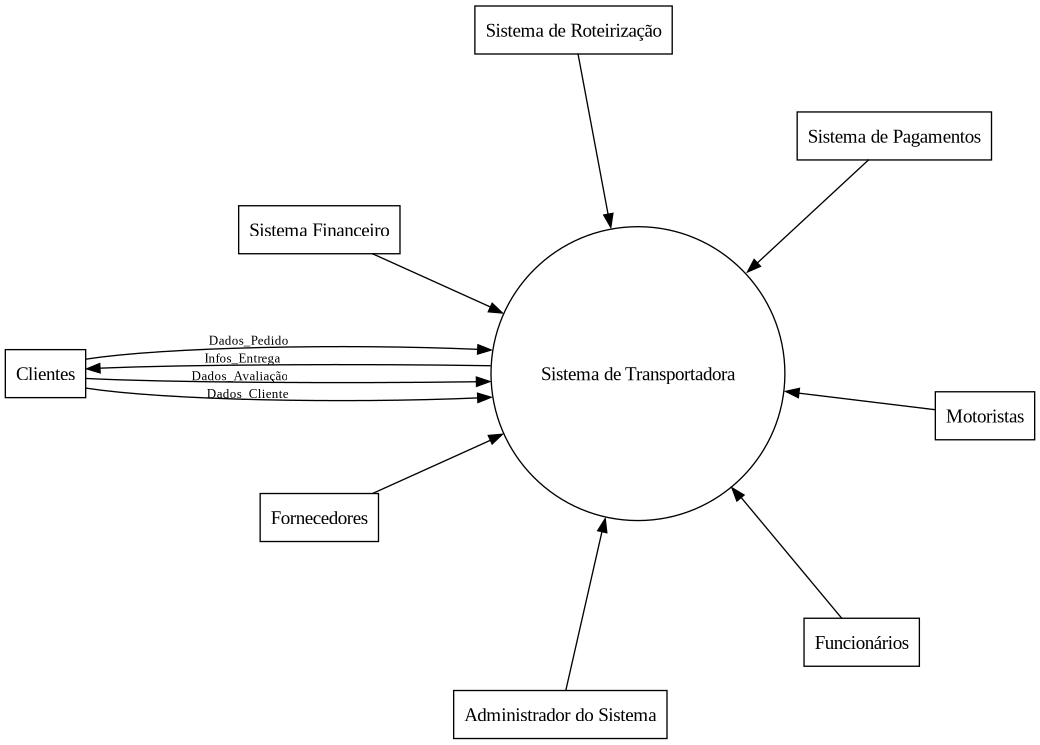
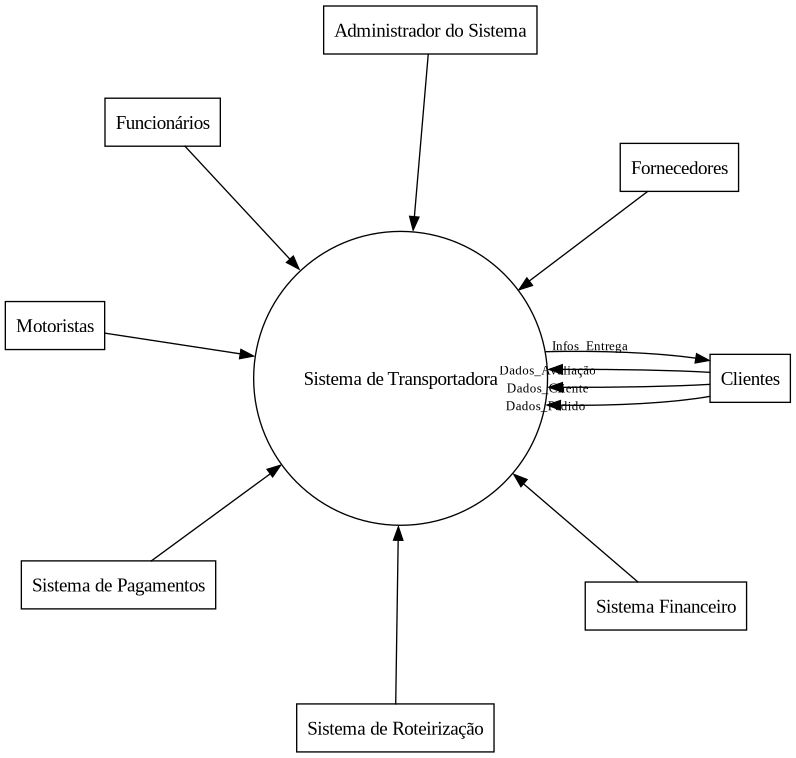
Trabalho SIG

diff --git a/Relatório/Semana-1/3-Levantamento-de-Requisitos/requisitos.tex b/Relatório/Semana-1/3-Levantamento-de-Requisitos/requisitos.tex
@@ -1,77 +1,31 @@
 \subsection{Análise de Requisitos}
 
-\subsubsection{Atender e Registrar Pedidos dos Clientes}
 
-O requisito de "Atender e Registrar Pedidos dos Clientes" é essencial para o funcionamento da transportadora, permitindo que os clientes façam pedidos e que essas solicitações sejam registradas no sistema. O ator envolvido é o cliente, que interage com o caso de uso "Receber Pedidos dos Clientes", enviando suas demandas por meio de um aplicativo ou plataforma online. O sistema, por sua vez, recebe esses pedidos, armazena as informações relevantes e os encaminha para processamento posterior. O registro adequado dos pedidos é crucial para a organização das demandas, possibilitando uma gestão mais eficiente das entregas e garantindo a satisfação dos clientes ao atender suas necessidades de forma precisa e oportuna.
+\subsubsection{Cadastro de Novos Clientes}
+O sistema deve proporcionar uma interface de cadastro de novos clientes, onde os usuários possam preencher informações pessoais, como nome, endereço de e-mail e preferências de viagem. Essas preferências incluem as cidades ou atrações turísticas que eles desejam visitar durante sua viagem. O cadastro é essencial para personalizar os roteiros de acordo com as escolhas individuais de cada cliente, oferecendo uma experiência turística mais adequada às suas expectativas.
 
-\subsubsection{Permitir Ordens de Pedido dos Fornecedores}
+\subsubsection{Receber Cidades ou Atrações de Interesse dos Clientes}
+Após o cadastro, o sistema permite que os clientes selecionem as cidades ou atrações turísticas que mais lhes interessam. Eles podem indicar os pontos turísticos específicos que desejam visitar, bem como as atividades ou eventos que gostariam de incluir em seus roteiros. Essa funcionalidade permite que os clientes expressem suas preferências de forma clara, tornando possível a criação de roteiros personalizados e alinhados com seus interesses individuais.
 
-O requisito de "Permitir Ordens de Pedido dos Fornecedores" busca assegurar o suprimento adequado de materiais e produtos essenciais para a operação da transportadora. Os fornecedores são os atores envolvidos, interagindo com o caso de uso "Emitir Ordens de Pedido aos Fornecedores". O sistema gera e envia eletronicamente as ordens de pedido, estabelecendo formalmente a solicitação de compra. A emissão de ordens de pedido é uma etapa crítica no controle da cadeia de suprimentos, permitindo que a transportadora mantenha um histórico organizado de suas transações comerciais com os fornecedores, garantindo a disponibilidade dos materiais e evitando problemas de estoque.
+\subsubsection{Acessar a API do Google para Coletar Dados sobre as Cidades}
+Para fornecer informações detalhadas sobre as cidades e atrações turísticas selecionadas pelos clientes, o sistema integra-se à API do Google ou a outras fontes confiáveis de dados. Por meio dessa API, o sistema pode obter dados relevantes, como horários de funcionamento, avaliações, endereços e descrições detalhadas dos pontos turísticos. A coleta dessas informações é fundamental para a criação de roteiros precisos e bem informados.
 
-\subsubsection{Cadastrar Fornecedores}
+\subsubsection{Formatar e Computar os Dados Adquiridos}
+Os dados obtidos da API do Google precisam ser tratados e formatados adequadamente para que possam ser usados no processo de otimização de rotas. As informações coletadas devem ser armazenadas em uma estrutura de dados apropriada, facilitando sua manipulação e utilização pelo sistema durante o processo de criação de roteiros turísticos otimizados.
 
-O requisito de "Cadastrar Fornecedores" visa permitir que a transportadora mantenha um registro detalhado e atualizado das informações de seus fornecedores. O ator envolvido é o funcionário, que interage com o caso de uso "Cadastrar Fornecedores" para inserir os dados dos fornecedores no sistema. O cadastro organizado dos fornecedores é crucial para uma gestão eficiente da cadeia de suprimentos, permitindo à transportadora ter acesso rápido e fácil às informações relevantes sobre seus parceiros de negócios, facilitando a comunicação e a negociação com essas entidades.
+\subsubsection{Otimizar Rotas}
+Uma das principais funcionalidades do sistema é a otimização das rotas turísticas. Com base nas cidades e atrações selecionadas pelos clientes, o sistema deve criar roteiros que maximizem a satisfação do cliente enquanto minimizam custos e tempo de deslocamento. Durante a otimização, o sistema considera restrições de tempo, horários de funcionamento das atrações e possíveis custos associados a cada visita.
 
-\subsubsection{Gerenciar Estoques}
+\subsubsection{Consultar Relatórios sobre as Rotas}
+O sistema deve gerar relatórios detalhados sobre as rotas otimizadas. Esses relatórios fornecem informações como a sequência de visitação das atrações, o tempo estimado de permanência em cada local, distâncias percorridas, custos totais e outras métricas relevantes. Os relatórios são úteis tanto para o cliente, que pode acompanhar seu itinerário, quanto para o administrador do sistema, que pode analisar o desempenho das rotas e realizar melhorias contínuas.
 
-O requisito de "Gerenciar Estoques" é essencial para garantir o adequado controle dos níveis de estoque da transportadora. O ator envolvido é o funcionário, que interage com o caso de uso "Atualizar Estoques", responsável por ajustar as quantidades de estoque com base nas movimentações de entrada e saída de mercadorias. O gerenciamento eficiente dos estoques é crucial para evitar faltas ou excessos, permitindo que a transportadora mantenha uma quantidade adequada de produtos disponíveis para atender a demanda dos clientes de forma ágil e eficaz.
+\subsubsection{Executar Pedidos de Otimização}
+O sistema permite que os clientes solicitem a otimização de suas rotas mesmo após a conclusão do roteiro inicial. Caso haja mudanças de planos ou novos interesses que surjam durante a viagem, o cliente pode solicitar uma nova otimização para seu roteiro. Essa flexibilidade garante que o cliente tenha a melhor experiência possível, adaptando seu itinerário de acordo com suas necessidades e desejos.
 
-\subsubsection{Auxiliar na Tomada de Decisões Logísticas}
+\subsubsection{Verificar Satisfação das Restrições}
+Durante o processo de otimização de rotas, o sistema verifica se as restrições impostas pelo cliente, como horários de funcionamento das atrações e intervalos de tempo disponíveis para visitação, são atendidas pelo roteiro otimizado. Caso alguma restrição não seja satisfeita, o sistema oferece alternativas ou ajusta o roteiro de forma adequada, assegurando que o cliente possa aproveitar ao máximo suas visitas e experiências turísticas.
 
-O requisito de "Auxiliar na Tomada de Decisões Logísticas" tem como objetivo fornecer informações relevantes para apoiar as decisões estratégicas e operacionais relacionadas à logística da transportadora. O ator envolvido é o funcionário, que interage com o caso de uso "Tomar Decisões Logísticas", que disponibiliza relatórios e dados relevantes para apoiar a tomada de decisões logísticas. A disponibilidade de informações precisas e atualizadas é essencial para a eficiência das operações logísticas, permitindo que a transportadora identifique oportunidades de otimização e reduza custos operacionais.
+\subsubsection{Registro de Rotas Já Otimizadas em uma Base de Dados}
+O sistema registra as rotas já otimizadas em uma base de dados para fins de histórico e análise. Esses registros permitem que o administrador e os clientes possam acessar roteiros previamente otimizados, evitando retrabalhos e facilitando a consulta de itinerários anteriores. Essa funcionalidade também permite que o sistema aprenda com experiências anteriores e refine suas estratégias de otimização com base em dados históricos, melhorando continuamente o serviço oferecido.
 
-\subsubsection{Integrar Multi CD’s}
-
-O requisito de "Integrar Multi CD’s" busca integrar os diversos Centros de Distribuição (CDs) da transportadora para coordenar e utilizar eficientemente os recursos disponíveis em diferentes locais. O ator envolvido é o Sistema de Roteirização, interagindo com os casos de uso "Verificar Capacidade do CD" e "Verificar Disponibilidade de Frota" para garantir a coordenação adequada das operações. A integração entre os CDs é crucial para a otimização da distribuição de produtos, permitindo que a transportadora acomode entregas de forma mais eficiente e reduza custos logísticos.
-
-\subsubsection{Emitir Notas Fiscais}
-
-O requisito de "Emitir Notas Fiscais" tem o propósito de documentar as transações comerciais realizadas pela
-
- transportadora. O ator envolvido é o funcionário, que interage com o caso de uso "Emitir Notas Fiscais", gerando os documentos fiscais para as transações realizadas. A emissão de notas fiscais é essencial para a conformidade legal e contábil da transportadora, garantindo a correta tributação das operações e o cumprimento das obrigações fiscais.
-
-\subsubsection{Emitir Relatórios de Capacidade e Operação}
-
-O requisito de "Emitir Relatórios de Capacidade e Operação" busca fornecer relatórios detalhados sobre a capacidade dos recursos da transportadora e o desempenho das operações. O ator envolvido é o Sistema de Roteirização, interagindo com o caso de uso "Emitir Relatórios de Utilização e de Operação", que gera os relatórios necessários para apresentar informações relevantes sobre a capacidade e o desempenho da operação logística. A disponibilidade desses relatórios é crucial para uma gestão eficiente da transportadora, permitindo que a empresa acompanhe o desempenho e identifique oportunidades de melhoria.
-
-\subsubsection{Controlar os Indicadores Financeiros da Empresa}
-
-O requisito de "Controlar os Indicadores Financeiros da Empresa" visa calcular e monitorar os indicadores financeiros relevantes para a transportadora. O ator envolvido é o Sistema Financeiro, que interage com o caso de uso "Calcular Indicadores", responsável por realizar os cálculos financeiros necessários. O controle adequado dos indicadores financeiros é essencial para a saúde financeira da transportadora, permitindo que a empresa tome decisões informadas e estratégicas para garantir a sustentabilidade e o crescimento do negócio.
-
-\subsubsection{Armazenar Dados sobre a Frota de Caminhões}
-
-O requisito de "Armazenar Dados sobre a Frota de Caminhões" tem o objetivo de manter um registro organizado dos dados da frota de caminhões da transportadora. O ator envolvido é o funcionário, que interage com o caso de uso "Cadastrar Funcionários e Administradores", onde também são inseridos os dados dos motoristas e da frota de caminhões. O armazenamento detalhado dos dados da frota é essencial para a gestão eficiente dos recursos e para garantir a manutenção adequada dos veículos, assegurando a disponibilidade e a confiabilidade dos caminhões para as operações de entrega.
-
-\subsubsection{Permitir Avaliação Pelos Clientes}
-
-O requisito de "Permitir Avaliação Pelos Clientes" tem o objetivo de permitir que os clientes avaliem os serviços prestados pela transportadora. O ator envolvido é o cliente, que interage com o caso de uso "Avaliar Serviço", fornecendo suas avaliações sobre o serviço recebido. A possibilidade de avaliação é fundamental para a satisfação dos clientes, permitindo que a transportadora obtenha feedback sobre a qualidade dos serviços e identifique oportunidades de melhoria para aprimorar a experiência do cliente.
-
-\subsubsection{Permitir que o Cliente Acompanhe o Produto}
-
-O requisito de "Permitir que o Cliente Acompanhe o Produto" visa oferecer aos clientes a possibilidade de acompanhar o status de suas entregas em tempo real. O ator envolvido é o cliente, que interage com o caso de uso "Acompanhar a Entrega", permitindo-lhes verificar o andamento das entregas e receber atualizações sobre o status de seus pedidos. Essa funcionalidade é essencial para aumentar a transparência e a confiança dos clientes na transportadora, proporcionando uma experiência de entrega mais satisfatória e garantindo que os clientes se sintam informados e envolvidos durante todo o processo.
-
-\subsection{Diagrama de Caso de Uso (DCU)}
-
-O Diagrama de Caso de Uso é uma poderosa ferramenta utilizada na Engenharia de Requisitos e no processo de análise e modelagem de sistemas de software. Essa representação gráfica tem como objetivo descrever de forma clara e detalhada as interações entre os atores e o sistema em questão, além de mapear as principais funcionalidades que o sistema oferece.
-
-No contexto do projeto proposto para a transportadora, o Diagrama de Caso de Uso desempenha um papel estratégico na comunicação com os stakeholders, na identificação dos atores envolvidos e na definição clara das funcionalidades essenciais para atender às necessidades dos usuários. Essa representação visual permite uma compreensão comum entre a equipe de desenvolvimento, gerentes, clientes e outras partes interessadas, alinhando expectativas e objetivos desde o início do projeto. Por isso, segue o Diagrama de Caso de Uso proposto para a transportadora na figura \ref{fig:DCU}:
-
-\begin{figure}[H]
-    \centering
-    \caption{Diagrama de Caso de Uso}
-    \label{fig:DCU}
-    \includegraphics[scale=0.29]{Diagramas/DCU.png}\\
-    \caption*{Fonte: Elaborado pelos autores}
-\end{figure}
-
-O Diagrama de Caso de Uso apresentado é uma representação visual que descreve de forma detalhada as interações entre os atores e o sistema proposto para a transportadora, oferecendo uma visão abrangente das funcionalidades do sistema e como elas se relacionam com os usuários e demais atores envolvidos.
-
-Os atores no diagrama são representados por ícones distintos, como "Clientes", "Administrador do Sistema", "Funcionários", "Fornecedores", "Motoristas", "Sistema de Pagamentos", "Sistema de Roteirização" e "Sistema Financeiro". Cada ator representa uma entidade externa ao sistema e desempenha um papel específico na interação com o sistema.
-
-As funcionalidades do sistema são representadas pelos casos de uso, que são elipses no diagrama. Cada caso de uso descreve uma ação ou funcionalidade que o sistema oferece e é identificado por um nome significativo. Os casos de uso são conectados aos atores relevantes por meio de linhas, mostrando as interações e comunicações entre os atores e o sistema.
-
-Por exemplo, o caso de uso "Receber Pedidos dos Clientes" é conectado ao ator "Clientes", indicando que os clientes interagem com o sistema para registrar seus pedidos. Isso pode envolver a utilização de um aplicativo ou plataforma online em que os clientes preencham os detalhes do pedido, como produtos desejados, endereço de entrega e informações de pagamento.
-
-Além disso, o diagrama também mostra as relações de inclusão e extensão entre os casos de uso. A relação de inclusão é representada por uma seta pontilhada e indica que um caso de uso inclui outro caso de uso. Por exemplo, o caso de uso "Calcular Rota Otimizada" está incluído em "Confirmar Pedido", o que significa que o cálculo da rota otimizada é uma etapa essencial no processo de confirmação do pedido.
-
-A relação de extensão é representada por uma seta tracejada e indica que um caso de uso estende outro caso de uso, ou seja, adiciona funcionalidades opcionais. Por exemplo, o caso de uso "Emitir Relatórios de Utilização e de Operação" estende o caso de uso "Registrar Histórico de Entregas", o que significa que, após o registro do histórico de entregas, o sistema pode fornecer a opção de gerar relatórios adicionais para análise e controle da operação.
+\subsection{Diagrama de Caso de Uso}

diff --git a/Relatório/Semana-1/1-Introdução/introducao.tex b/Relatório/Semana-1/1-Introdução/introducao.tex
@@ -1,3 +1,37 @@
-A indústria de transporte desempenha um papel vital na economia global, garantindo o fluxo de mercadorias e serviços. As transportadoras enfrentam desafios operacionais, logísticos e econômicos complexos, que exigem abordagens inovadoras para aprimorar suas atividades e se manterem competitivas em um mercado em constante evolução. A Engenharia de Produção, com sua abordagem sistêmica e conhecimentos multidisciplinares em Pesquisa Operacional, Logística, Economia e Computação, destaca-se como uma disciplina capaz de enfrentar esses desafios por meio da construção de um sistema de informações.
 
-Um sistema de informações bem projetado e implementado desempenha um papel crucial na resolução de problemas em uma transportadora. Ele consiste em uma infraestrutura tecnológica e processos organizacionais para coletar, armazenar, processar e disseminar informações relevantes em tempo real. Para isso será necessária a coleta sistemática de dados precisos sobre todas as atividades da transportadora, como roteirização, tempos de entrega, desempenho de motoristas e custos operacionais. Esses dados fornecem uma visão completa das operações, identificando gargalos, pontos de ineficiência e áreas que requerem melhorias.
+O setor de turismo apresenta grande potencial para otimização. Esse potencial deriva, sobretudo, do fato de que uma grande parte dessa indústria é baseada no estabelecimento de rotas. Dessa maneira, é possível aproximar, por exemplo, o planejamento de roteiros turísticos a problemas clássicos da pesquisa operacional, como o problema do caixeiro viajante e suas variações.
+
+Nesse sentido, o “modelo” de problema com o qual mais se encaixa essa operação é o OPTW, ou “Problema de Orientação com Janelas de Tempo” (Gonçalves, V. A., et al, 2017) ou com coleta de prêmios. Entretanto, porque e em qual direção precisariam ser otimizadas rotas turísticas? Na máxima satisfação do cliente para um mínimo custo a ele. Para ilustrar o problema basta pensar em um caixeiro que visita atrações dentro de limites e intervalos de tempo, recebe um nível de satisfação em cada uma.
+
+Outras interpretações possíveis para o problema são o PTPPP (Profitable Tour Problem with Priority Prizes), sugerido por Morabito (et al., 2014), como colocado por Silva  (et al, 2018). No entanto, ainda seria preciso considerar os horizonteis temporais caso essa seja a interpretação mais consistente do problema. Nesta situação, a ordem de visitação também importaria para os prêmios.
+
+Algumas considerações, no entanto, são importantíssimas para a aplicação desse pensamento ao planejamento de roteiros turísticos. A primeira delas é que uma viagem raramente é planejada para apenas um dia. Esse comentário é especialmente verdadeiro para regiões com muitas atrações: imagine conhecer Roma, por exemplo, em apenas algumas horas. Não seria possível, e nem satisfatório ao turista.
+
+A segunda é que, além de ter que retornar à um galpão, ou aeroporto, ou um ponto inicial semelhante, o turista precisa voltar à hotéis para que descanse. Dependendo a extensão do roteiro, porém, este hotel não é necessariamente sempre o mesmo, ao contrário do ponto inicial.
+
+Outro ponto importante é que as atrações não podem ser visitadas em qualquer período do dia - alguns pontos turísticos podem só funcionar pela manhã, por exemplo. Além disso, é necessário que o viajante faça pausas para almoço e tenha horários livres. Quanto aos horários de almoço, vale salientar que os restaurantes certamente apresentarão restrições temporais, além de acrescentarem aos custos da rota. 
+
+A representação completa do problema, então, é uma implementação multiperíodo do problema do caixeiro viajante lucrativo com restrições temporais, orçamentárias e espaciais. Nessa situação, o caixeiro (ou, simplesmente, viajante) sai de um galpão (aeroporto, rodoviária, entre outros), passa por um hotel, visita atrações (cada qual com seu horário de funcionamento e tempo de visita), paga por elas e recebe um prêmio de satisfação por isso. Esse prêmio será incialmente medido em unidades monetárias e representaria o preço máximo pelo qual o turista pagaria por aquela atração. Além de visitar atrações, o viajante deve também se alimentar em um restaurante no meio do dia e voltar à um hotel ao final dele. No dia seguinte, ele visitará mais atrações e estará disposto às mesmas restrições. Por fim, o caixeiro precisa retornar ao depósito (aeroporto ou rodoviária) e a viagem (ou roteiro) estará completa(o).
+
+O projeto se justifica, sobretudo, no interesse dos atores econômicos no turismo e dos stakeholders desta área. Afinal, a Organização Mundial do Turismo (UNWTO, 2014) “estima que atividades de turismo são diretamente responsáveis por 6%-8% dos trabalhos gerados no mundo todo” (SILVA; MORABITO; PUREZA, 2018). 
+
+Além disso, há uma grande quantidade de artigos sobre o tema de otimização de roteiros turísticos, mas a maioria deles tem enfoque no aspecto da coleta de dados para o planejamento de roteiros turísticos (SILVA; MORABITO; PUREZA, 2018). Um artigo (SILVA; MORABITO; PUREZA, 2018), foca no quesito das otimizações desses roteiros, contudo, no modelo construído não foi feita uma otimização multiperíodo.
+
+Outro ponto importante a ser considerado é a retomada das atividades turísticas no mundo, setor especialmente prejudicado pela pandemia da COVID-19. Segundo a Organização Mundial do Turismo, por exemplo, em 2021 a indústria perdeu US\$2 trilhões devido à doença (OMT, 2021). Nessa situação, é esperado que mais pessoas voltem, ou comecem, a viajar e, dessa maneira, o planejamento de itinerários de turismo se torna mais importante. No entanto, ainda segundo a OMT, é esperado que a recuperação do setor seja frágil e lenta (OMT, 2021), mas que ainda seria possível em 2022 (OMT, 2022), com a recuperação plena devendo ocorrer apenas em 2024, ou mais tarde (OMT, 2022).
+
+Com isso, o fornecimento de uma ferramenta que ajude as empresas e outros atores do setor a criar rotas ótimas, ou perto disso, certamente apresenta espaço em um setor em recuperação. Afinal, com ela seria possível prover melhores experiências à clientes que retomam às viagens com altas expectativas e apresentar maior eficiência quanto aos custos. 
+
+\subsection{Justificativa para o Desenvolvimento de um Sistema de Informação para Otimização de Roteiros Turísticos}
+
+O setor de turismo, conhecido por sua contribuição significativa à economia global, enfrenta desafios complexos relacionados ao planejamento de roteiros turísticos que garantam a satisfação dos clientes e a eficiência operacional. Com a base conceitual fundamentada em Pesquisa Operacional, o presente projeto tem como objetivo desenvolver um Sistema de Informação inovador e abrangente, capaz de lidar com a complexidade inerente aos itinerários de viagem e proporcionar experiências altamente satisfatórias aos turistas.
+
+\subsubsection{Satisfação dos Clientes e Experiências Satisfatórias:}
+A satisfação dos clientes é um fator crucial no setor de turismo, uma vez que clientes satisfeitos tendem a se tornar clientes fiéis e propagadores de boas experiências, o que contribui para a reputação positiva de destinos turísticos e empresas do setor. O planejamento de roteiros turísticos que atendam às expectativas dos viajantes é essencial para garantir experiências enriquecedoras, com visitas bem-sucedidas a atrações, respeito aos horários de funcionamento, intervalos adequados para alimentação e descanso, e uma sequência lógica de atividades que otimizem o tempo disponível. O Sistema de Informação proposto visa alcançar esses objetivos, oferecendo itinerários personalizados e eficientes, capazes de proporcionar aos turistas vivências memoráveis e agradáveis.
+
+\subsubsection{Benefícios para o Setor de Turismo:}
+A indústria do turismo é uma das principais fontes de emprego e receitas em muitos países ao redor do mundo. Nesse contexto, um sistema que facilite a criação de roteiros turísticos otimizados traz vantagens significativas para o setor. Empresas de turismo, agências de viagens e outros atores envolvidos podem se beneficiar com itinerários mais eficientes, reduzindo custos operacionais e aumentando a satisfação dos clientes. Além disso, o desenvolvimento desse sistema de informação também pode atrair mais turistas, uma vez que destinos que oferecem experiências de viagem bem planejadas e gratificantes tendem a se destacar no mercado, atraindo um maior número de visitantes e impulsionando o crescimento econômico regional.
+
+\subsubsection{Complexidade do Projeto:}
+O planejamento de roteiros turísticos apresenta desafios intrincados e multifacetados. Os itinerários devem levar em consideração diversas restrições temporais, como horários de funcionamento das atrações e intervalos de tempo para pausas e descanso, bem como limitações orçamentárias e espaciais. Além disso, a natureza multiperíodo do problema, com a necessidade de retorno ao ponto de partida e às acomodações noturnas, aumenta ainda mais a complexidade do projeto. O uso de técnicas de Pesquisa Operacional, como o problema do caixeiro viajante com janelas de tempo e coleta de prêmios, é fundamental para abordar essa problemática. O Sistema de Informação em desenvolvimento tem o objetivo de resolver eficientemente essas questões complexas, proporcionando soluções ótimas ou próximas disso, e facilitando a criação de roteiros turísticos que atendam às necessidades e desejos dos clientes.
+
+Em conclusão, o desenvolvimento do Sistema de Informação para Otimização de Roteiros Turísticos se justifica pela busca em proporcionar experiências satisfatórias aos clientes do setor de turismo, aumentar a eficiência operacional e contribuir para o crescimento econômico do setor. Através da aplicação de conceitos da Pesquisa Operacional, esse sistema pretende enfrentar a complexidade inerente ao planejamento de itinerários de viagem, oferecendo soluções eficazes que garantam a satisfação dos turistas e a competitividade das empresas e destinos turísticos no cenário global.

diff --git a/Relatório/Semana-1/2-Descrição-detalhada/descricao.tex b/Relatório/Semana-1/2-Descrição-detalhada/descricao.tex
@@ -1,15 +1,30 @@
-A indústria de transporte desempenha um papel vital na economia global, sendo a espinha dorsal que garante o fluxo contínuo de mercadorias e serviços em todo o mundo. No entanto, essa indústria enfrenta desafios complexos e multifacetados que afetam sua eficiência e competitividade. Problemas relacionados às operações logísticas, como o planejamento de rotas, a gestão de estoques e a coordenação de entregas, tornam-se ainda mais desafiadores em um cenário de constante evolução tecnológica e exigências crescentes dos clientes.
+A indústria do turismo desempenha um papel significativo na economia global, proporcionando experiências únicas e enriquecedoras aos viajantes. No entanto, essa indústria também enfrenta desafios complexos relacionados ao planejamento de roteiros turísticos, que afetam diretamente a satisfação dos clientes e a eficiência operacional das empresas. Problemas como a falta de otimização das rotas, a falta de informações centralizadas e a ausência de uma visão holística das operações podem levar a itinerários ineficientes, insatisfação dos turistas e, por consequência, impactar negativamente a reputação das empresas do setor.
 
-Além disso, questões econômicas também desempenham um papel crítico. As transportadoras enfrentam pressões para reduzir custos operacionais, ao mesmo tempo em que precisam oferecer serviços de qualidade e atender às demandas específicas dos clientes. A falta de controle adequado dos custos e receitas pode levar a margens de lucro apertadas e afetar negativamente a saúde financeira da empresa.
+Nesse contexto, o sistema de informação proposto surge como uma solução estratégica e inovadora para enfrentar os desafios específicos do planejamento de roteiros turísticos. A abordagem busca integrar de forma sinérgica conhecimentos e técnicas que permitam às empresas do setor coletar, processar e utilizar informações relevantes para a criação de itinerários altamente satisfatórios e eficientes.
 
-Nesse contexto, o sistema de informações proposto, baseado na abordagem sistêmica e conhecimentos multidisciplinares da Engenharia de Produção, surge como uma solução estratégica e inovadora para enfrentar esses desafios. Através da integração de Pesquisa Operacional, Logística, Economia e Computação, o sistema busca criar uma plataforma que permita à transportadora coletar, armazenar, processar e disseminar informações relevantes em tempo real.
+A compreensão das necessidades e preferências dos clientes é fundamental para criar experiências turísticas sob medida. A coleta de dados detalhados sobre as atrações, horários de funcionamento, tempo de visita e níveis de satisfação dos turistas fornece uma base sólida para o planejamento de roteiros otimizados. A utilização de modelos de Pesquisa Operacional, como o Problema de Orientação com Janelas de Tempo (OPTW) ou o Problema de Caixeiro Viajante Lucrativo com Restrições Temporais e Orçamentárias, permitirá a criação de algoritmos eficazes para resolver esses problemas complexos, garantindo a sequência lógica e eficiente das atividades turísticas.
 
-A compreensão dos processos existentes é fundamental para identificar os gargalos e ineficiências no fluxo de trabalho. A coleta e análise de dados precisos sobre todas as atividades da transportadora, como roteirização, tempos de entrega, desempenho de motoristas e custos operacionais, fornecem uma visão completa das operações. Isso possibilita a identificação de áreas que requerem melhorias, a otimização das rotas de transporte e o controle eficiente dos estoques.
+Um dos principais desafios é a centralização e integração das informações. Com a utilização de um sistema de informações, as empresas poderão ter uma visão holística das operações, permitindo uma coordenação eficiente entre os diversos atores envolvidos, como hotéis, restaurantes e atrações turísticas. Isso possibilitará a sincronização das atividades e a criação de itinerários personalizados, considerando as restrições temporais e orçamentárias dos clientes, ao mesmo tempo em que maximiza a satisfação com a experiência turística.
 
-Um dos pontos problemáticos é a falta de informações centralizadas e integradas. Com múltiplos sistemas e fontes de dados, a tomada de decisões pode ser dificultada e a coordenação entre departamentos pode ser prejudicada. A ausência de uma visão holística das operações pode resultar em decisões subótimas e redundâncias no processo.
+Outro aspecto crucial é a necessidade de melhorar a satisfação do cliente ao longo de toda a jornada. O sistema de informação permitirá o monitoramento em tempo real das atividades dos turistas, fornecendo informações atualizadas sobre as atrações visitadas, horários disponíveis, pausas para refeições e intervalos para descanso. Além disso, a coleta de feedback dos clientes após cada visita permitirá avaliar a qualidade dos serviços prestados e realizar ajustes para aprimorar continuamente a experiência do turista.
 
-Outro desafio é a necessidade de melhorar a satisfação do cliente e fornecer uma experiência positiva ao longo de toda a jornada. Acompanhar o status das entregas, fornecer informações em tempo real e permitir que os clientes avaliem o serviço são aspectos cruciais para construir confiança e fidelidade com a base de clientes.
+Com isso, podemos estabelecer, já, os atores envolvidos no sistema. São eles:
 
-Diante desses desafios, a solução proposta tem como objetivo aumentar a eficiência operacional da transportadora, aprimorar a gestão de estoques, centralizar e integrar informações, otimizar a roteirização e aumentar a satisfação do cliente. O sistema de informações permitirá o compartilhamento transparente de dados entre os diferentes atores envolvidos, possibilitando a colaboração e a coordenação eficiente das atividades.
+\subsection{Clientes:} 
+Os clientes são os principais usuários do sistema. Eles interagem com o sistema para acessar informações sobre atrações turísticas, horários de funcionamento, custos de visitação e outros detalhes relevantes para planejar suas viagens. Além disso, os clientes fornecem feedback sobre suas experiências, o que é essencial para aprimorar o sistema e garantir a satisfação do cliente a longo prazo. O intuito é que os clientes forneçam apenas as cidades que querem visitar e recebam a rota otimizada para aquela localidade.
 
-Ao implementar esse sistema, a transportadora terá uma visão mais precisa e abrangente de suas operações, possibilitando a identificação de oportunidades de melhoria e a adoção de estratégias mais eficazes. Isso resultará em processos mais eficientes, entregas mais rápidas, redução de custos operacionais e, ao mesmo tempo, o aumento da satisfação dos clientes.
+\subsection{API do Google sobre as cidades:} 
+A API do Google sobre as cidades é um agente externo ao sistema, que fornece informações valiosas sobre as cidades e atrações turísticas. Essa API pode incluir dados como pontos turísticos, hotéis, restaurantes, horários de funcionamento, informações geográficas e muito mais. A integração dessa API no sistema permite que os usuários acessem informações atualizadas e detalhadas sobre os destinos turísticos, contribuindo para a precisão e relevância dos roteiros gerados.
+
+\subsection{Sistema de Otimização:} 
+O sistema de otimização é o núcleo do sistema de informação. Ele utiliza técnicas de Pesquisa Operacional, como o Problema do Caixeiro Viajante Lucrativo com Restrições Temporais e Orçamentárias, para criar itinerários turísticos eficientes e satisfatórios. O sistema de otimização analisa os dados fornecidos pela API do Google sobre as cidades, juntamente com as preferências e restrições dos clientes, para criar roteiros personalizados que atendam às necessidades e desejos dos viajantes.
+
+\subsection{Sistema de Busca na API:} 
+O sistema de busca na API é responsável por recuperar informações específicas dos destinos turísticos a partir dos dados fornecidos pela API do Google. Ele atua como uma interface entre o sistema de otimização e as informações relevantes para os roteiros turísticos. Essa integração é fundamental para garantir que o sistema de otimização tenha acesso a dados atualizados e precisos sobre as atrações turísticas, possibilitando a geração de roteiros otimizados e relevantes.
+
+\subsection{Administrador do Sistema:} 
+O administrador do sistema é um agente humano responsável por gerenciar e supervisionar o funcionamento do sistema como um todo. Ele atua como um ponto central de controle, garantindo que o sistema esteja atualizado, seguro e funcionando adequadamente. O administrador é responsável por lidar com a manutenção do sistema, realizar atualizações, monitorar a segurança dos dados e fornecer suporte técnico aos usuários. Além disso, o administrador também pode realizar análises dos dados gerados pelo sistema para identificar oportunidades de melhoria e tomar decisões estratégicas para aprimorar a eficiência e a qualidade dos serviços oferecidos pelo sistema.
+
+\subsection{Sistema de Feedback:}
+
+O sistema de feedback desempenha um papel crucial no processo de comunicação entre os clientes e o administrador do sistema. Ele atua como um agente intermediário que coleta e organiza os feedbacks dos clientes e armazena dados sobre as rotas e sua eficência, fornecendo informações valiosas para o administrador tomar decisões informadas e realizar melhorias contínuas nos serviços oferecidos.

diff --git a/Relatório/Semana-1/4-referencias/referencias.tex b/Relatório/Semana-1/4-referencias/referencias.tex
@@ -1,0 +1,6 @@
+GONÇALVES, V. A.; REIS, D. M. dos; MAIA, E. H. B.; BEIRIGO, B. A.; SOUZA, S. R. de; BARRIENTOS, A. Y. M. ALGORITMO GENÉTICO BASEADO EM CHAVES ALEATÓRIAS PARA O ORIENTEERING PROBLEM WITH TIME WINDOWS. Revista Interdisciplinar de Pesquisa em Engenharia, [S. l.], v. 2, n. 10, p. 90–104, 2017. DOI: 10.26512/ripe.v2i10.21730. Disponível em: https://periodicos.unb.br/index.php/ripe/article/view/21730. Acesso em: 4 jul. 2022.
+
+TURISMO perde US\$ 2 trilhões em 2021 por causa da pandemia BR. ONU news, [S. l.], p. 1-1, 21 nov. 2021. Disponível em: 29/11/2021. Acesso em: 8 ago. 2022.
+REVER totalmente o turismo global pode representar uma oportunidade no pós-pandemiaBR. ONU news, [S. l.], p. 1-1, 9 jan. 2022. Disponível em: 09/01/2022. Acesso em: 8 ago. 2022.
+
+SILVA, Admilson Alcântara; MORABITO, Reinaldo; PUREZA, VItória. Optimization approaches to support the planning and analysis of travel itineraries. Expert System with Applications, [s. l.], v. 112, 1 dez. 2018. Disponível em: 1/12/2018. Acesso em: 8 ago. 2022.

diff --git a/Relatório/Semana-1/main.tex b/Relatório/Semana-1/main.tex
@@ -34,5 +34,7 @@
 \section{Levantamento de Requisitos}
 \input{3-Levantamento-de-Requisitos/requisitos.tex}
 
+\section{Referências}
+\input{4-referencias/referencias.tex}
 
 \end{document}

diff --git a/Relatório/Semana-1/Diagramas/DCU.md b/Relatório/Semana-1/Diagramas/DCU.md
@@ -3,73 +3,56 @@ skinparam actorStyle awesome
 !theme mars
 left to right direction
 
-actor Clientes as cliente <<human>>
-actor "Administrador do Sistema" as sys_admin <<human>>
-actor Funcionários as funcionario <<human>>
-actor Fornecedores as fornecedores <<human>>
-actor Motoristas as motoristas <<human>>
-actor "Sistema de Pagamentos" as pagamentos <<Application>>
-actor "Sistema de Roteirização" as roteirizador <<Application>>
-actor "Sistema Financeiro" as financeiro <<Application>>
+actor "Clientes" as cliente
+actor "API do Google sobre as cidades" as API
+actor "Sistema de Otimização" as  otimizador
+actor "Administrador do Sistema" as sys_admin
+actor "Sistema de Feedback" as feedback
+actor "Sistema de Log In" as login
+actor "Sistema de Coleta de dados" as coletador
 
-package "Registros"{
-fornecedores -- (Cadastrar Clientes)
-fornecedores -- (Emitir ordem do de Pedido)
-
-funcionario -- (Atualizar Estoques)
-funcionario -- (Cadastrar Fornecedores)
-funcionario -- (Consultar relatórios Financeiros)
-
-sys_admin -- (Cadastrar Novos Funcionários)
-sys_admin -- (Liiberar acesso dos Funcionários)
-sys_admin -- (Consultar relatórios Financeiros)
-funcionario -- (Confirmar pedido)
+cliente -- (Cadastro de Novos Clientes)
+cliente -- (Enviar Cidades ou Atrações)
+cliente -- (Enviar Feedbacks)
+cliente -- (Receber Rotas Otimizadas)
 
 
-}
 
-package "Finanças"{
-fornecedores -- (Efetuar pagamento)
+login   --   (Cadastro de Novos Clientes)
+coletador -- (Acessar a API do Google para Coletar Dados sobre as Cidades)
+coletador -- (Registro de Rotas Já Otimizadas em uma Base de Dados)
 
-pagamentos -- (Emitir Nota)
-pagamentos -- (Efetuar Pagamento)
-pagamentos -- (Registrar dados Financeiros)
-(Emitir Nota) <.. (Efetuar Pagamento) : <<include>>
+feedback -- (Receber Feedbacks)
+feedback -- (Elaborar Relatório sobre Feedbacks)
 
-financeiro -- (Calcular Indicadores)
-(Emitir Relatórios Financeiros) ..> (Calcular Indicadores) : <<extends>>
+API -- (Enviar dados sobre as cidades)
 
-}
+(Receber Cidades ou Atrações de Interesse dos Clientes) -- otimizador 
+(Otimizar Rotas) -- otimizador 
+(Executar Pedidos de Otimização) -- otimizador 
+(Verificar Satisfação das Restrições) -- otimizador 
+(Registro de Rotas Já Otimizadas em uma Base de Dados) -- otimizador 
+(Receber Rotas Otimizadas) <-- (Otimizar Rotas) : <<include>>
+(Enviar Feedbacks) --> (Receber Feedbacks) : include
+(Receber Feedbacks) --> (Elaborar Relatório sobre Feedbacks) : <<extends>>
+(Elaborar Relatório sobre Feedbacks) --> (Consultar Relatórios sobre as Rotas) : <<extends>>
+(Consultar Relatórios sobre as Rotas) --> (Elaborar Relatório sobre Feedbacks) : <<include>>
 
-package "Roteirização"{
-(Confirmar pedido) ..> (Calcular rota otimizada) : <<include>>
+(Enviar dados sobre as cidades) --> (Enviar dados sobre atrações) : <<include>>
+(Enviar dados sobre as cidades) --> (Enviar dados sobre hotéis) : <<include>>
+(Enviar dados sobre as cidades) --> (Enviar dados sobre restaurantes) : <<include>>
 
-roteirizador -- (Verificar Capacidade do CD)
-roteirizador -- (Verificar a Disponibilidade de frota)
-roteirizador -- (Calcular rota otimizada)
-roteirizador -- (Emitir Ordem de Entrega)
-roteirizador -- (Emitir Relatórios de utilização e de operação)
+(Acessar a API do Google para Coletar Dados sobre as Cidades) --> (Enviar dados sobre as cidades) : <<incude>>
 
-(Calcular rota otimizada) ..> (Verificar Capacidade do CD) : <<include>>
-(Calcular rota otimizada) ..> (Verificar a Disponibilidade de frota) : <<include>>
+(Enviar dados sobre atrações) --> (Formatar e Computar os Dados Adquiridos) : <<include>>
+(Enviar dados sobre hotéis) --> (Formatar e Computar os Dados Adquiridos) : <<include>>
+(Enviar dados sobre restaurantes) --> (Formatar e Computar os Dados Adquiridos) : <<include>>
 
-(Emitir Ordem de Entrega) ..> (Registrar Histórico de Entegas) : <<include>>
-(Registrar Histórico de Entegas) <.. (Emitir Relatórios de utilização e de operação) : <<extend>>
-}
+coletador -- (Formatar e Computar os Dados Adquiridos)
 
-package "Entrega"{
-(Emitir Ordem de Entrega) ..> (Realizar a Entrega) :<<include>>
-motoristas -- (Realizar a entrega)
-motoristas -- (Confirmar a entrega)
+(Enviar Cidades ou Atrações) -->  (Receber Cidades ou Atrações de Interesse dos Clientes) : <<include>>
 
-cliente -- (Confirmar a entrega)
-cliente -- (Acompanhar a Entrega)
-cliente -- (Avaliar serviço)
-
-(Avaliar serviço) ..> (Confirmar a entrega) : <<extends>>
-(Acompanhar a Entrega)..> (Confirmar a entrega) : <<extends>>
-
-}
+sys_admin -- (Consultar Relatórios sobre as Rotas)
 
 
 @enduml
